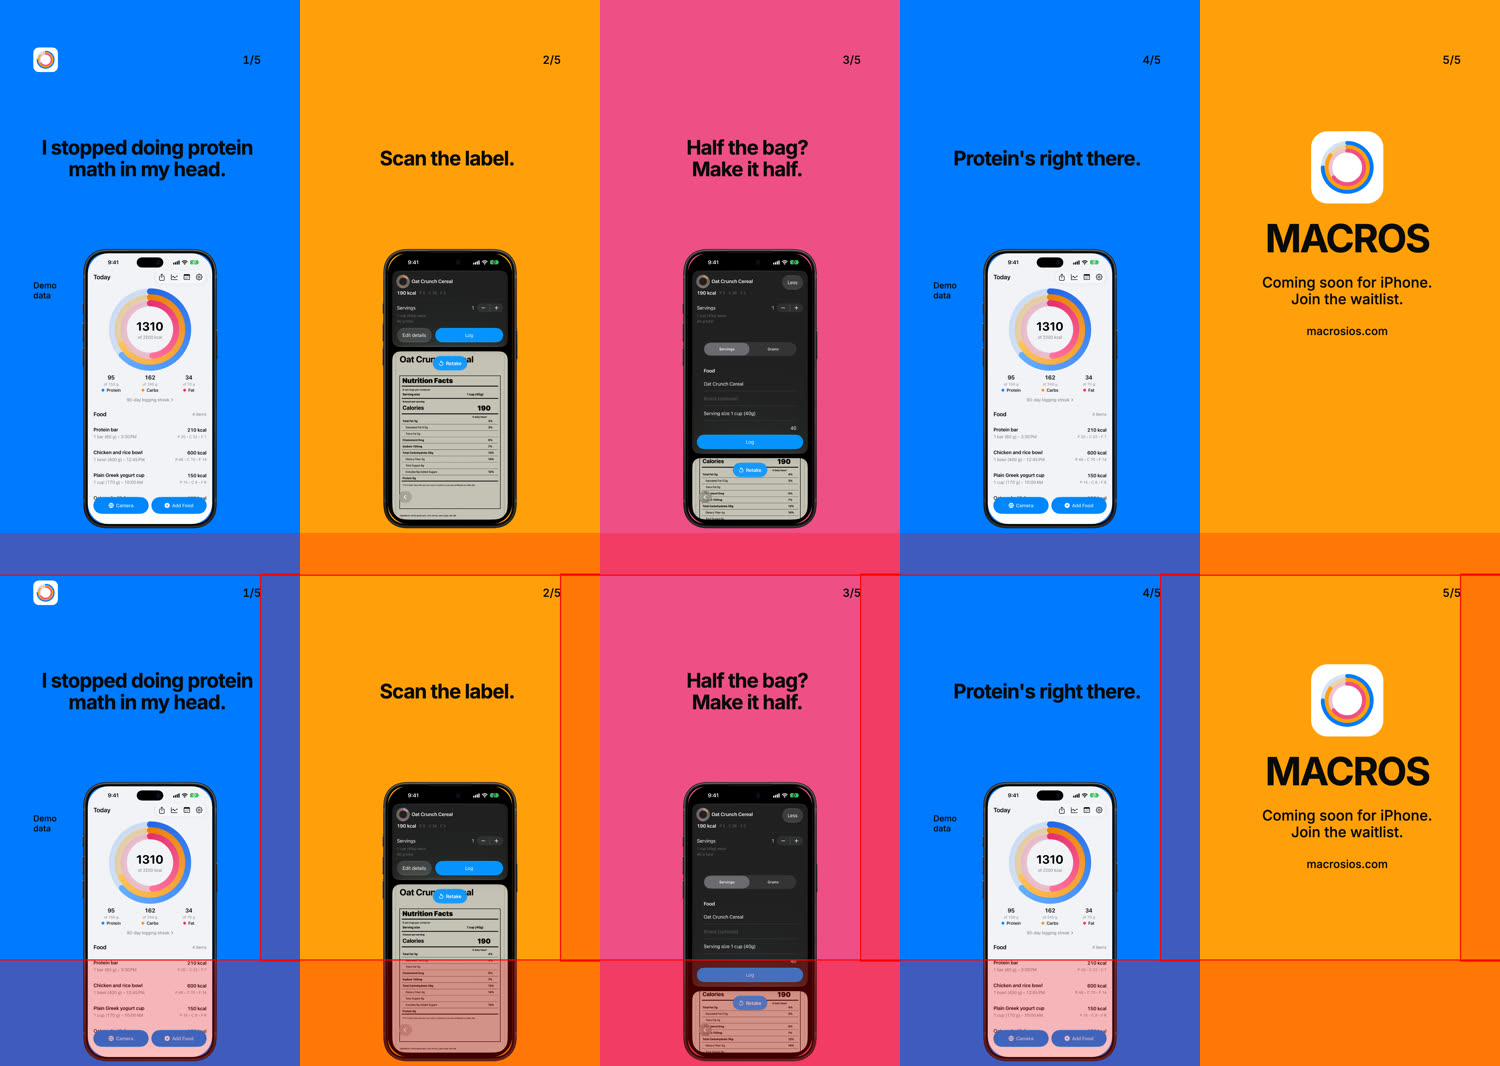
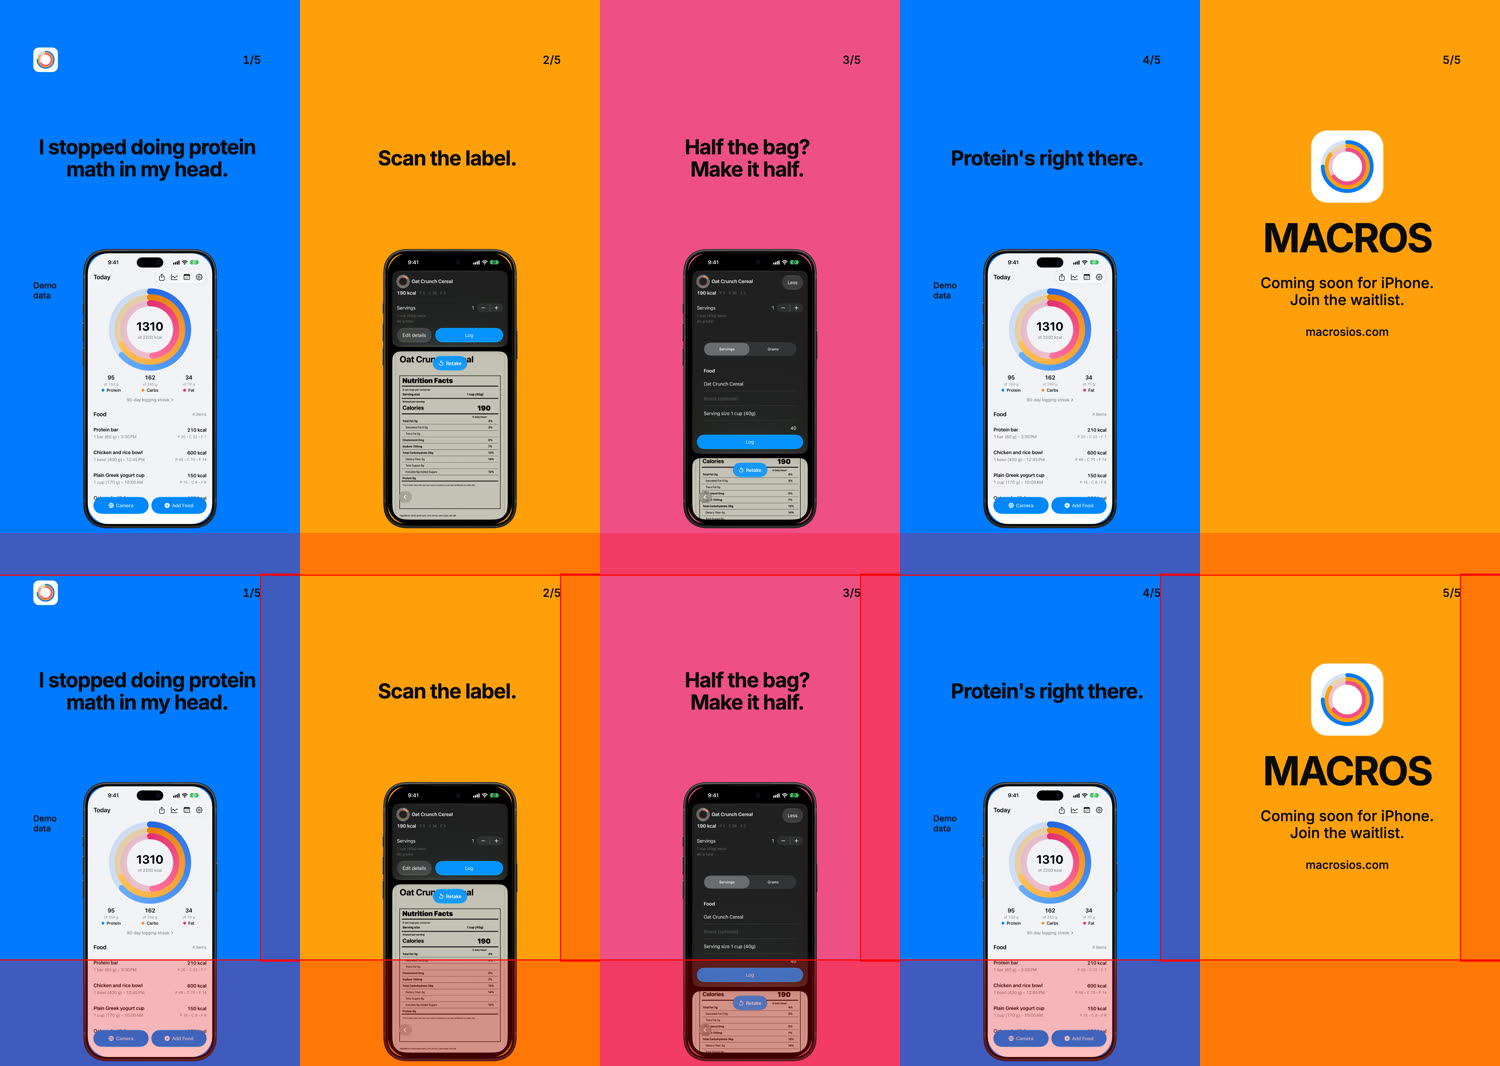
fix(slides): clean Home Screen and larger headlines
Set 5 slides 3-4 use a still of the trailer's clean Home Screen (MACROS icon and widgets only) instead of app-widgets.png, which shows third-party apps and a shared-person widget. Headlines go from 72 px to 74 px, the largest size that keeps every headline in two lines; CTA text scales by the same factor.

diff --git a/tools/media/trailer/src/slide.tsx b/tools/media/trailer/src/slide.tsx
@@ -10,7 +10,7 @@ export type SlideProps = { set: number; index: number; safeZones: boolean };
 
 // TikTok keeps its own UI over the top 150 px, bottom 380 px and right 140 px; text stays inside x 120-940.
 const SAFE = { top: 150, bottom: 380, right: 140, left: 120 };
-const HEADLINE_SIZE = 72;
+const HEADLINE_SIZE = 74;
 const column: React.CSSProperties = { position: "absolute", left: SAFE.left, width: 1080 - SAFE.right - SAFE.left, textAlign: "center" };
 
 const Zones: React.FC = () => {
@@ -25,10 +25,10 @@ const Zones: React.FC = () => {
 const EndSlide: React.FC<{ intro?: string }> = ({ intro }) =>
   <div style={{ ...column, top: SAFE.top, height: 1920 - SAFE.top - SAFE.bottom, display: "flex", flexDirection: "column", alignItems: "center", justifyContent: "center" }}>
     <div style={{ marginBottom: 55 }}><RingsMark /></div>
-    <div style={{ fontSize: 140, fontWeight: 700, letterSpacing: "-0.04em", lineHeight: 1 }}>MACROS</div>
-    {intro && <div style={{ marginTop: 60, fontSize: 44, fontWeight: 500 }}>{intro}</div>}
-    <div style={{ marginTop: intro ? 20 : 60, fontSize: 52, fontWeight: 500, lineHeight: 1.15, maxWidth: 700 }}>{CTA}</div>
-    <div style={{ marginTop: 60, fontSize: 40, fontWeight: 500 }}>{SITE}</div>
+    <div style={{ fontSize: 144, fontWeight: 700, letterSpacing: "-0.04em", lineHeight: 1 }}>MACROS</div>
+    {intro && <div style={{ marginTop: 60, fontSize: 45, fontWeight: 500 }}>{intro}</div>}
+    <div style={{ marginTop: intro ? 20 : 60, fontSize: 53, fontWeight: 500, lineHeight: 1.15, maxWidth: 700 }}>{CTA}</div>
+    <div style={{ marginTop: 60, fontSize: 41, fontWeight: 500 }}>{SITE}</div>
   </div>;
 
 export const Slide: React.FC<SlideProps> = ({ set, index, safeZones }) => {

diff --git a/tools/media/trailer/scripts/render-slides.ts b/tools/media/trailer/scripts/render-slides.ts
@@ -1,12 +1,14 @@
 // Renders the TikTok slideshows, avatar and captions: bun run render:slides [--safe-zones]
 // Output: build/marketing/tiktok/set-<n>-<slug>/<i>.png, avatar.png, captions.md (--safe-zones writes review/ instead, with the TikTok zones outlined).
 import { copyFileSync, mkdirSync, writeFileSync } from "node:fs";
-import { fromRoot, run } from "./paths.ts";
+import { PUBLIC_SOURCES, fromRoot, run } from "./paths.ts";
 import { SETS, SITE } from "../src/slides.ts";
 
 const OUT = fromRoot("build/marketing/tiktok");
 const SCREENS_SRC = fromRoot("web/src/assets/app-images");
 const SCREENS_DEST = fromRoot("tools/media/trailer/public/screens");
+// home-clean is the trailer's Home Screen still (MACROS only), not an app screenshot; see docs/evidence/tiktok-slides/README.md.
+const screenFile = (name: string) => (name === "home-clean" ? `${PUBLIC_SOURCES}/home-clean.png` : `${SCREENS_SRC}/${name}.png`);
 // The rings mark sweeps in over 0.6 s, so stills are taken once it has settled.
 const FRAME = 30;
 const safeZones = process.argv.includes("--safe-zones");
@@ -16,7 +18,7 @@ const still = (id: string, out: string, props: object) =>
 
 mkdirSync(SCREENS_DEST, { recursive: true });
 for (const name of new Set(SETS.flatMap((s) => s.slides.map((slide) => slide.screenshot)))) {
-  if (name) copyFileSync(`${SCREENS_SRC}/${name}.png`, `${SCREENS_DEST}/${name}.png`);
+  if (name) copyFileSync(screenFile(name), `${SCREENS_DEST}/${name}.png`);
 }
 
 const dir = safeZones ? `${OUT}/review` : OUT;

diff --git a/tools/media/trailer/src/slides.ts b/tools/media/trailer/src/slides.ts
@@ -1,7 +1,7 @@
 import { COLORS } from "./shots";
 
-/** A screenshot in web/src/assets/app-images/ (without the extension). */
-export type Screenshot = "app-home" | "app-scan-review" | "app-scan-details" | "app-add-food" | "app-history" | "app-widgets";
+/** A screenshot in web/src/assets/app-images/ (without the extension), or "home-clean", the trailer's clean Home Screen still in public/sources/. */
+export type Screenshot = "app-home" | "app-scan-review" | "app-scan-details" | "app-add-food" | "app-history" | "home-clean";
 
 export type Slide = {
   headline: string; // empty on the last slide of a set, which is the CTA
@@ -56,7 +56,7 @@ export const SETS: SlideSet[] = [
   set(5, "before-dinner", "Before dinner", [
     ["Wait, where am I on protein?", "app-home", true],
     ["Dinner's nearly ready.", "app-home", true],
-    ["One glance at my phone.", "app-widgets", true],
-    ["Right. Now I know.", "app-widgets", true],
+    ["One glance at my phone.", "home-clean", true],
+    ["Right. Now I know.", "home-clean", true],
   ], "A widget on the Home Screen shows where I am on protein before I cook dinner. Coming soon for iPhone.", ["#ProteinTracking", "#iPhoneWidgets", "#FoodDiary", "#MACROSapp"]),
 ];

diff --git a/docs/evidence/tiktok-slides/README.md b/docs/evidence/tiktok-slides/README.md
@@ -13,7 +13,7 @@ Five sets of five 1080 x 1920 stills and a 1080 x 1080 avatar, rendered from `to
 ## Checks
 
 - All 25 slides are 1080 x 1920 and `avatar.png` is 1080 x 1080 (`file`).
-- Every slide viewed. No headline wraps past two lines; one headline size (72 px) throughout. Text stays inside x 120-940 and clear of the top 150 px and bottom 380 px. The phone is the trailer's bezel at the same size and place on every slide that has one; it extends into the bottom zone, which is allowed because no text is there.
+- Every slide viewed. No headline wraps past two lines; one headline size (74 px) throughout, with the CTA slide's text scaled by the same factor (MACROS 144 px, intro 45 px, CTA 53 px, site 41 px). 74 px is the largest size that keeps every headline in two lines: at 75 px "Breakfast again. First meeting in five minutes." wraps to three lines, so 96-110 px does not fit this copy. Measured from the rendered PNGs, all headline ink sits inside x 120-940 (widest: set 4 slide 1, x 127-933). Text is clear of the top 150 px and bottom 380 px. The phone is the trailer's bezel at the same size and place on every slide that has one; it extends into the bottom zone, which is allowed because no text is there.
 - Claims against the screenshots and site:
   - "Eight servings. In this one box." `app-scan-review.png` shows "8 servings per container" on the label (zoomed to confirm; it is small in the 1320 px capture).
   - "Scanning is free." `web/src/data/site.ts` FAQ: logging, search, barcode and label scans are free; Pro is optional.
@@ -21,4 +21,5 @@ Five sets of five 1080 x 1920 stills and a 1080 x 1080 avatar, rendered from `to
   - "Mine doesn't. Open it and log." and "Your diary stays on your phone." match the FAQ ("You can log food without an account") and the on-device storage rule.
   - "Same yogurt as yesterday." and "There it is." sit on `app-add-food.png`, which shows a "greek yogurt" search with Plain Greek yogurt cup under On Device.
 - Slides showing calculator targets or Insights-like totals (Today ring, widgets) carry a "Demo data" label beside the phone.
+- Home Screen slides (set 5, slides 3-4) use `tools/media/trailer/public/sources/home-clean.png` (ignored), a still of the trailer's Home Screen after logging. It is frame 20.0 s of `build/marketing/trailer/sources/v3/flow-take1.mov` (the same take `home.mp4` is cut from, 17.6-22.6 s), 1320 x 2868. Checked by eye: only the MACROS icon and the MACROS widgets are visible. No third-party app icon, label, widget or shared-person widget. `app-widgets.png` was dropped because it shows third-party apps (Fitness, Watch, Files) and a shared-person widget, which Apple's marketing rules do not allow on a Home Screen shot.
 - CTA: the site has a waitlist form (`WaitlistForm.astro` on the home and about pages), so slide 5 reads "Coming soon for iPhone. Join the waitlist."
